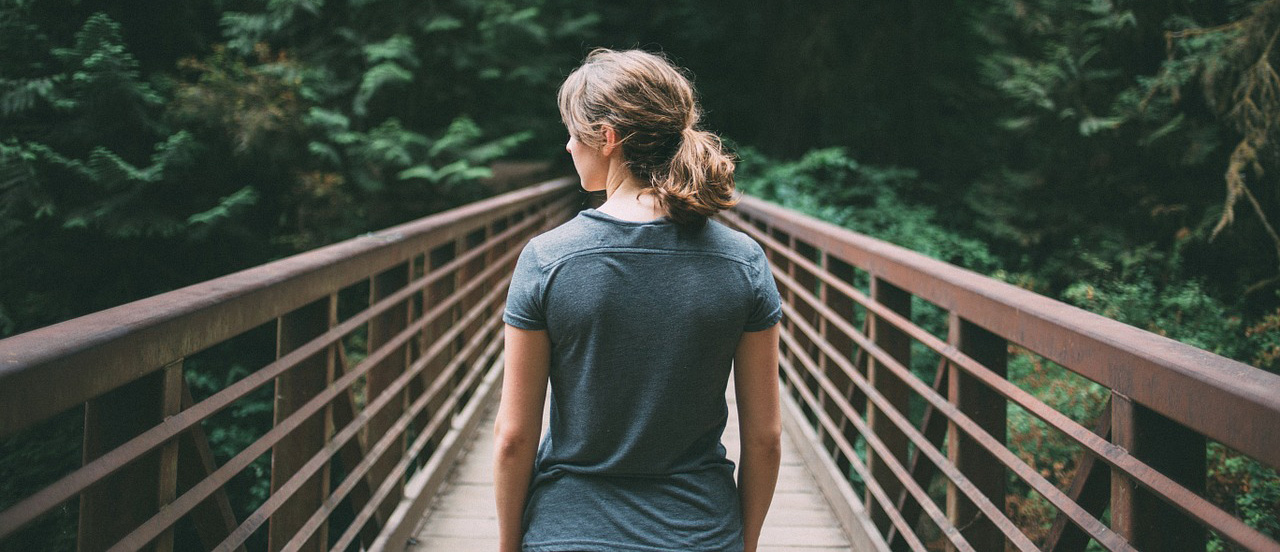
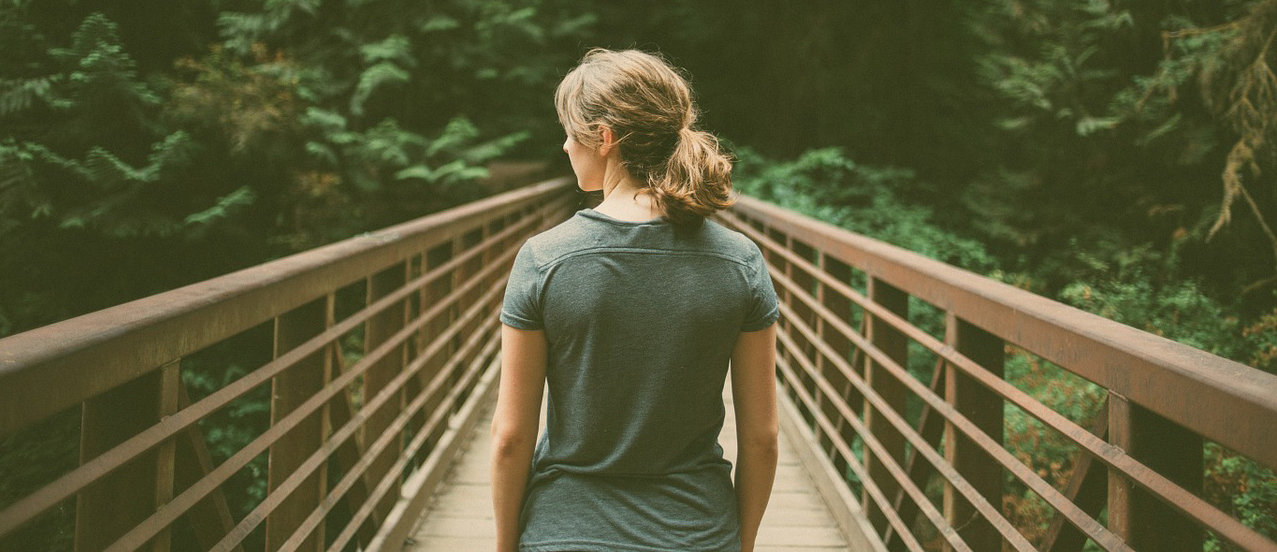
Add new hero image with color overlay and header/footer to all pages

diff --git a/volunteer.html b/volunteer.html
@@ -1,0 +1,66 @@
+<!DOCTYPE html>
+<html lang="en">
+  <head>
+    <!-- Required Meta Tags and Title-->
+    <meta charset="utf-8">
+    <meta name="viewport" content="width=device-width, initial-scale=1, shrink-to-fit=no">
+    <meta name="description" content="width=device-width, initial-scale=1, shrink-to-fit=no">
+    <!-- CSS -->
+    <link rel="stylesheet" href="css/main.css">
+    <!-- Google Font Goes here -->
+    <link href="https://fonts.googleapis.com/css2?family=Nunito:wght@400;700&display=swap" rel="stylesheet">
+    <title>Pretty Parks | Volunteer</title>
+  </head>
+  <body>
+    <div class="top-bar">
+      <div class="top-bar-div">
+        <p>800-555-5555</p>
+        <div class="social-icons">
+          <img class="social-img" src="images/facebook.svg" alt="facebook">
+          <img class="social-img" src="images/twitter.svg" alt="twitter">
+          <img class="social-img" src="images/youtube.svg" alt="youtube">
+          <img class="social-img" src="images/snapchat.svg" alt="snapchat">
+          <img class="social-img" src="images/instagram.svg" alt="instagram">
+        </div>
+      </div>
+    </div>
+    <header class="green-white-header">
+            <a href="index.html"><img class="logo" src="images/Pretty-Parks-Logo.png"></a>
+            <nav>
+              <ul>
+                <li><a href="what-we-do.html">What We Do</a></li>
+                <li><a href="volunteer.html">Volunteer</a></li>
+                <li><a href="#">Contact</a></li>
+              </ul>
+            </nav>
+    </header>
+    <main>
+        
+    </main>
+    <footer>
+      <div class="footer-divs">
+        <div class="footer-left-div">
+          <p>Let's Connect!</p>
+          <div class="social-icons-footer">
+          <img class="social-img" src="images/facebook.svg" alt="facebook">
+          <img class="social-img" src="images/twitter.svg" alt="twitter">
+          <img class="social-img" src="images/youtube.svg" alt="youtube">
+          <img class="social-img" src="images/snapchat.svg" alt="snapchat">
+          <img class="social-img" src="images/instagram.svg" alt="instagram">
+        </div>
+      </div>
+      <div class="footer-middle-div">
+        <a href="#">Volunteer</a>
+      </div>
+        <div class="footer-right-div">
+          <p>123 Hello Drive</p>
+          <p>Suite 100</p>
+          <p>Wilmington, DE 19806</p>
+        </div>
+      </div>
+        <p class="bottom-p-footer">Copyright 2020 PrettyParks.com</p>
+    </footer>
+    <!--JS Script-->
+    <script src="main.js"></script>
+  </body> 
+</html>

diff --git a/what-we-do.html b/what-we-do.html
@@ -1,0 +1,66 @@
+<!DOCTYPE html>
+<html lang="en">
+  <head>
+    <!-- Required Meta Tags and Title-->
+    <meta charset="utf-8">
+    <meta name="viewport" content="width=device-width, initial-scale=1, shrink-to-fit=no">
+    <meta name="description" content="width=device-width, initial-scale=1, shrink-to-fit=no">
+    <!-- CSS -->
+    <link rel="stylesheet" href="css/main.css">
+    <!-- Google Font Goes here -->
+    <link href="https://fonts.googleapis.com/css2?family=Nunito:wght@400;700&display=swap" rel="stylesheet">
+    <title>Pretty Parks | What We Do</title>
+  </head>
+  <body>
+    <div class="top-bar">
+      <div class="top-bar-div">
+        <p>800-555-5555</p>
+        <div class="social-icons">
+          <img class="social-img" src="images/facebook.svg" alt="facebook">
+          <img class="social-img" src="images/twitter.svg" alt="twitter">
+          <img class="social-img" src="images/youtube.svg" alt="youtube">
+          <img class="social-img" src="images/snapchat.svg" alt="snapchat">
+          <img class="social-img" src="images/instagram.svg" alt="instagram">
+        </div>
+      </div>
+    </div>
+    <header class="green-white-header">
+        <a href="index.html"><img class="logo" src="images/Pretty-Parks-Logo.png"></a>
+            <nav>
+              <ul>
+                <li><a href="what-we-do.html">What We Do</a></li>
+                <li><a href="volunteer.html">Volunteer</a></li>
+                <li><a href="#">Contact</a></li>
+              </ul>
+            </nav>
+    </header>
+    <main>
+       
+    </main>
+    <footer>
+      <div class="footer-divs">
+        <div class="footer-left-div">
+          <p>Let's Connect!</p>
+          <div class="social-icons-footer">
+          <img class="social-img" src="images/facebook.svg" alt="facebook">
+          <img class="social-img" src="images/twitter.svg" alt="twitter">
+          <img class="social-img" src="images/youtube.svg" alt="youtube">
+          <img class="social-img" src="images/snapchat.svg" alt="snapchat">
+          <img class="social-img" src="images/instagram.svg" alt="instagram">
+        </div>
+      </div>
+      <div class="footer-middle-div">
+        <a href="#">Volunteer</a>
+      </div>
+        <div class="footer-right-div">
+          <p>123 Hello Drive</p>
+          <p>Suite 100</p>
+          <p>Wilmington, DE 19806</p>
+        </div>
+      </div>
+        <p class="bottom-p-footer">Copyright 2020 PrettyParks.com</p>
+    </footer>
+    <!--JS Script-->
+    <script src="main.js"></script>
+  </body> 
+</html>

diff --git a/index.html b/index.html
@@ -25,12 +25,12 @@
       </div>
     </div>
     <header class="green-white-header">
-            <img class="logo" src="images/Pretty-Parks-Logo.png">
+        <a href="index.html"><img class="logo" src="images/Pretty-Parks-Logo.png"></a>
             <nav>
               <ul>
-                <li>What We Do</li>
-                <li>Volunteer</li>
-                <li>Contact</li>
+                <li><a href="what-we-do.html">What We Do</a></li>
+                <li><a href="volunteer.html">Volunteer</a></li>
+                <li><a href="#">Contact</a></li>
               </ul>
             </nav>
     </header>

diff --git a/less/main.less b/less/main.less
@@ -143,8 +143,8 @@ main {
     background: @yellow;
     opacity: .1;
     position: absolute;
-    width: 100%;
-    height: 100%;
+    //width: 100%;
+    //height: 100%;
 }
 
 .social-icons {

diff --git a/css/main.css b/css/main.css
@@ -136,8 +136,6 @@ main {
   background: #d3ad00;
   opacity: .1;
   position: absolute;
-  width: 100%;
-  height: 100%;
 }
 .social-icons {
   display: -webkit-box;
